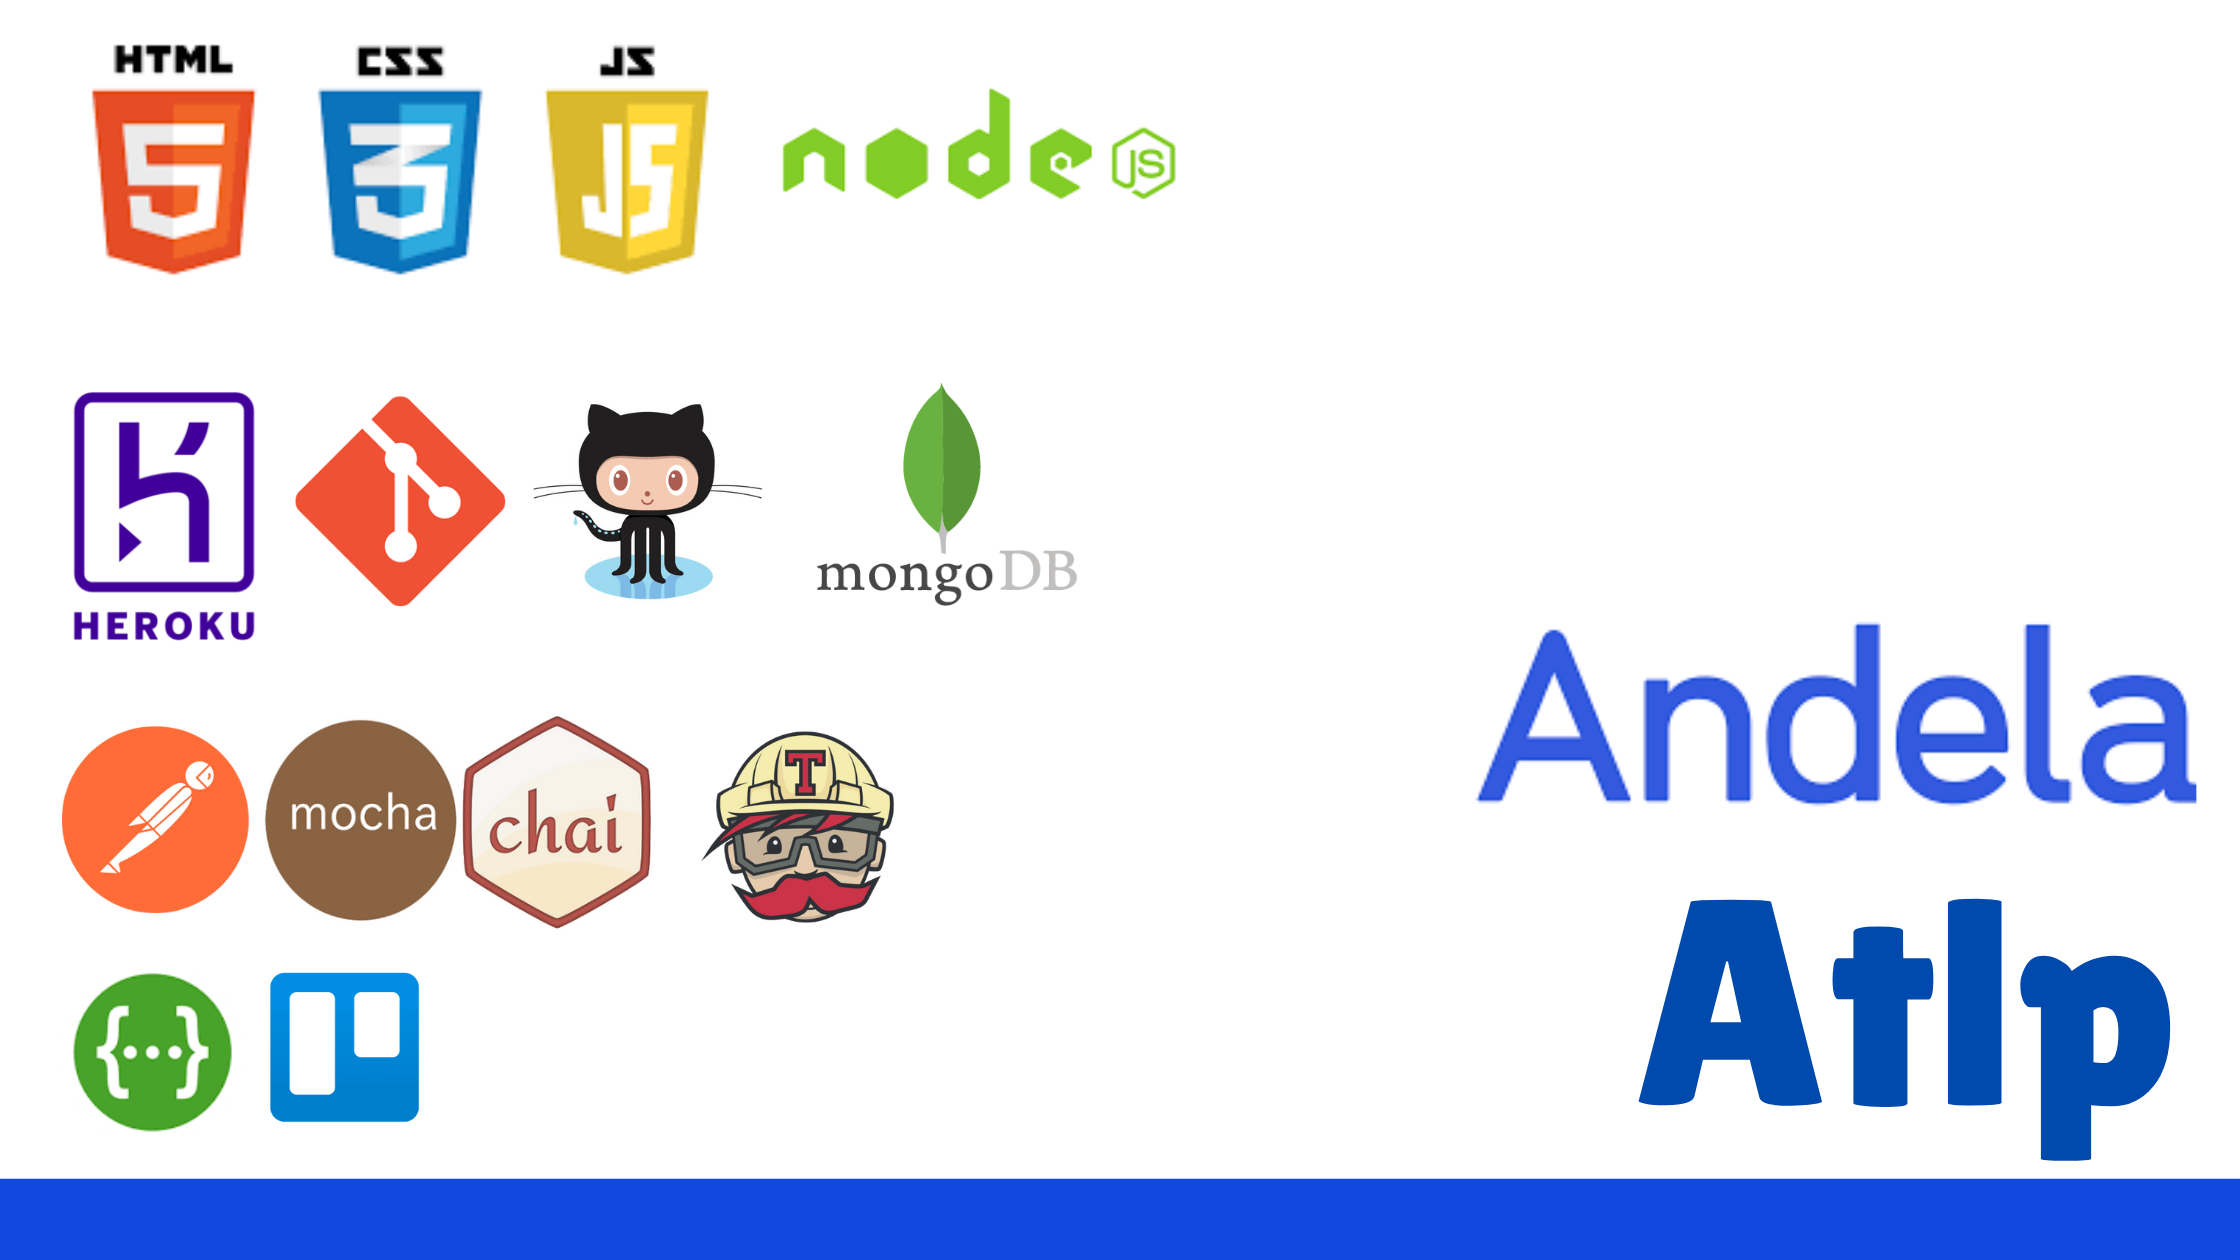
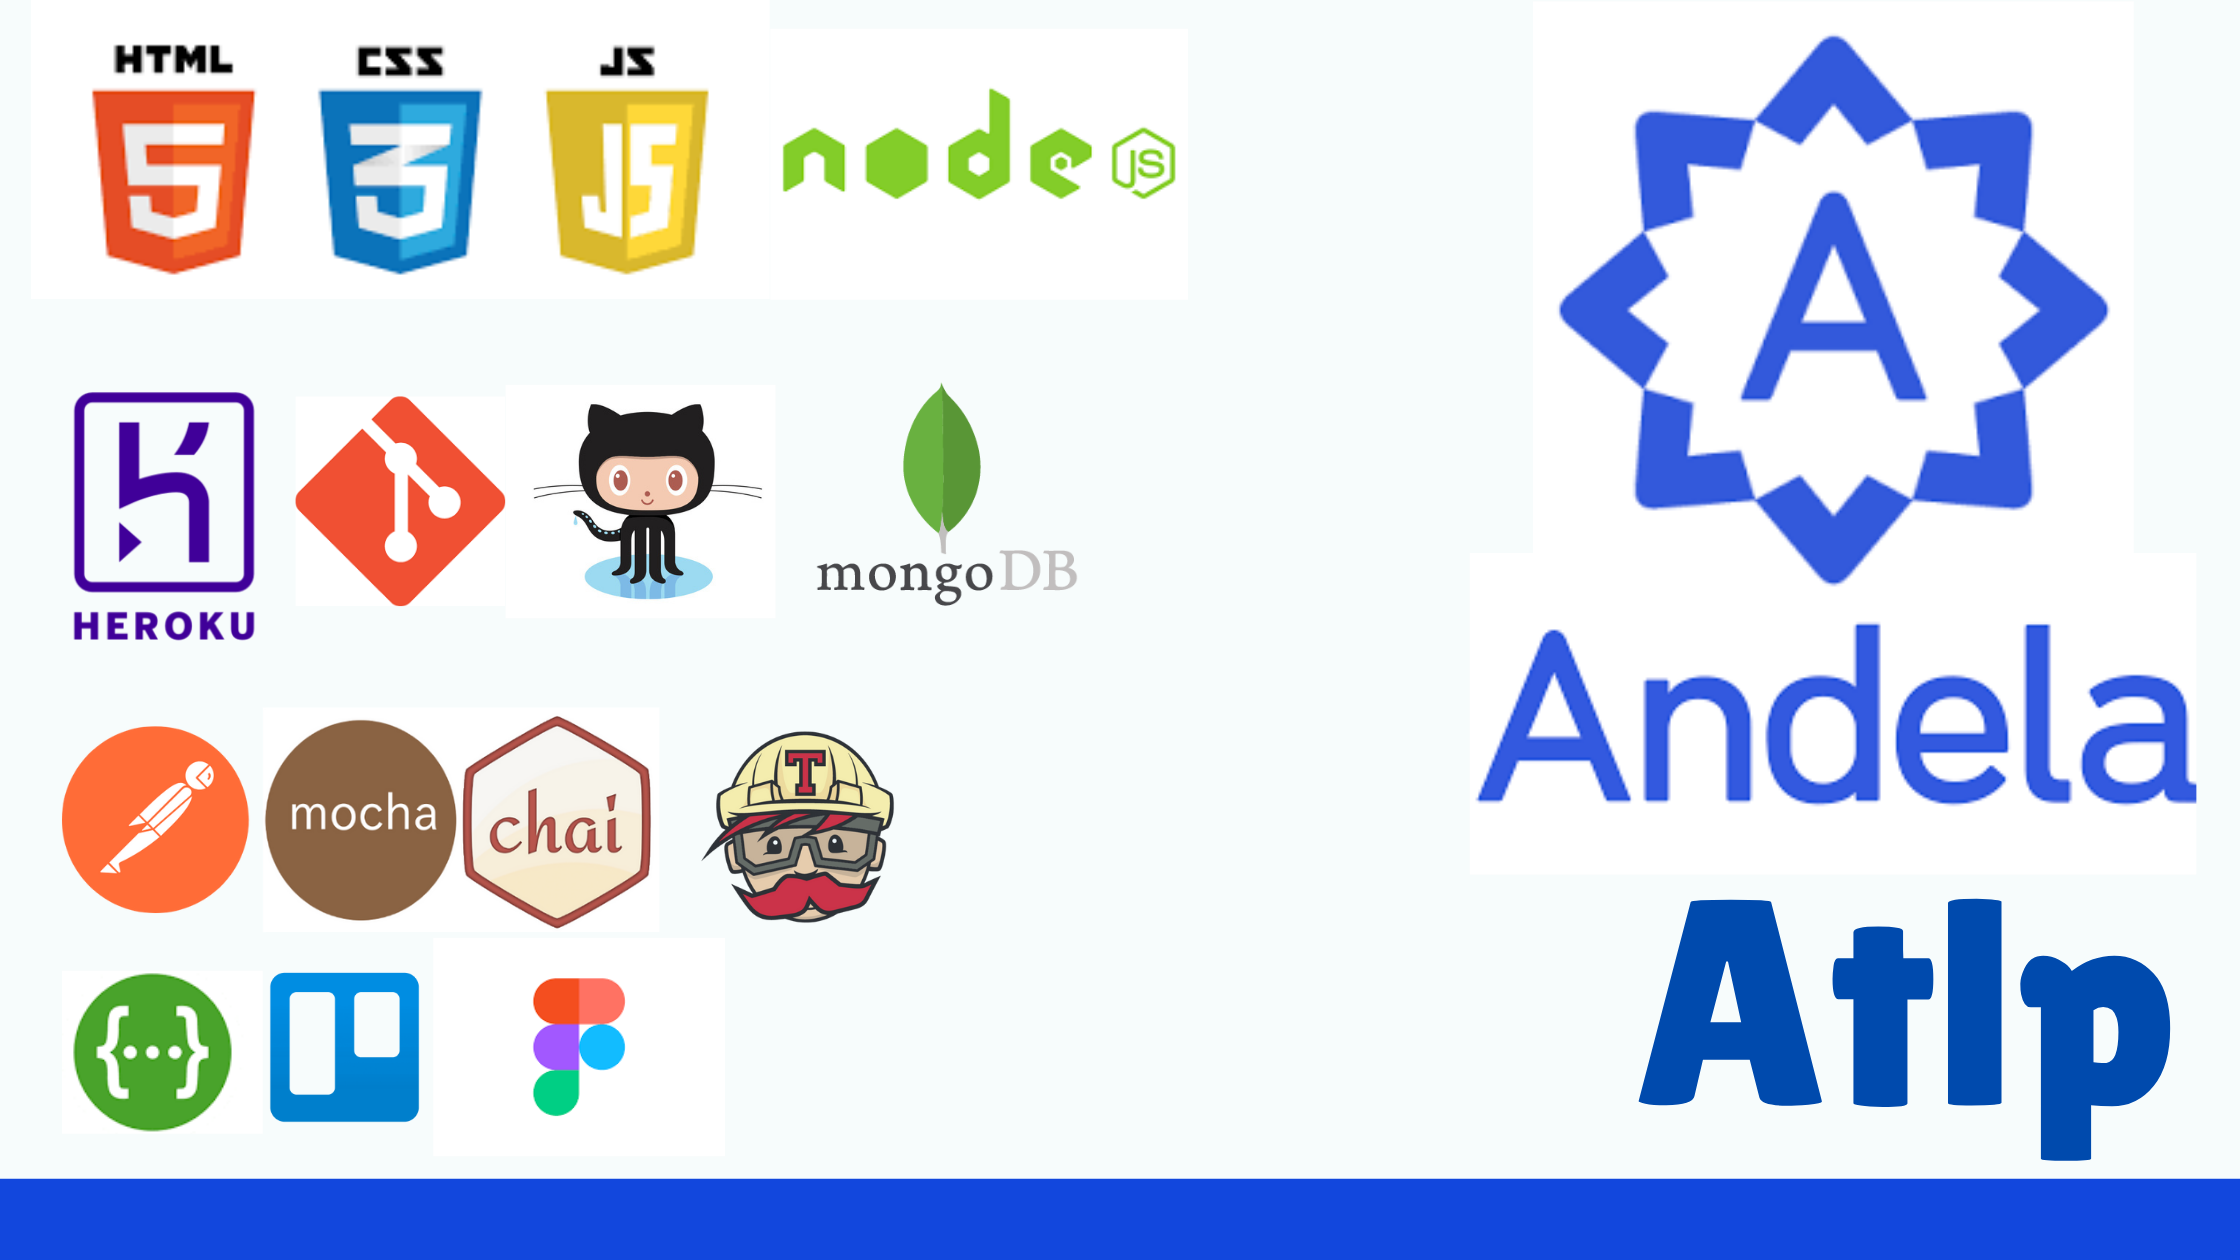
Add trello resources

Changed region(s): [[0.6875, 0.031, 0.9375, 0.4643], [0.2188, 0.7738, 0.2812, 0.8976]]

diff --git a/Bootcamp Capstone Project/Module 1 - Create UI Templates/README.md b/Bootcamp Capstone Project/Module 1 - Create UI Templates/README.md
@@ -1,0 +1,17 @@
+# Creating UI Templates
+
+This will be your first module to start your journey in atlp. You will be asked to utilize HTML, CSS and JavaScript to create UI templates for your blog. But that won't be all, you will also need to use the following tools:
+
+- Trello : A project management tool
+- Figma : For creating mockups( The design for your UI)
+- GitHub : for tracking your codes and static hosting
+
+## Useful resources
+### Trello
+As most people in atlp are beginners it only right to assume that you are not familiar with these fancy names like trello. It might seem scary at first but it is actually very simple, you will be asked to create user stories for your project. These resources might come in handy:
+
+[Capstone Project Template](https://trello.com/b/GJ2wVIhy/capstone-project-template)
+[Creating User Stories for your app](https://www.youtube.com/watch?v=eEQPs_xUmVM)
+
+### Figma
+[Design A Website In Under 1 Hour With Figma] (https://www.youtube.com/watch?v=FK4YusHIIj0)
